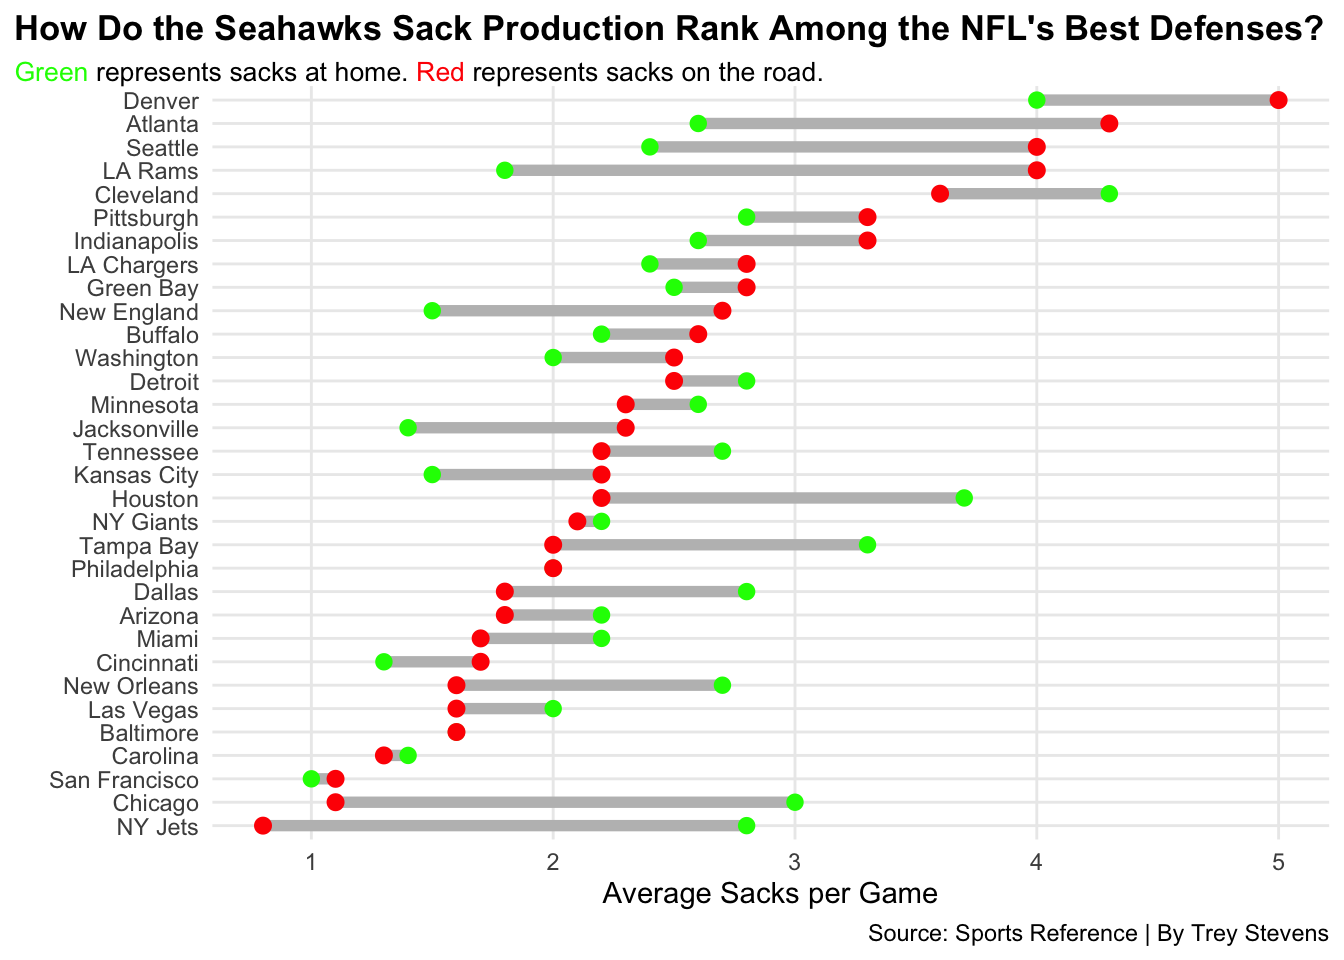
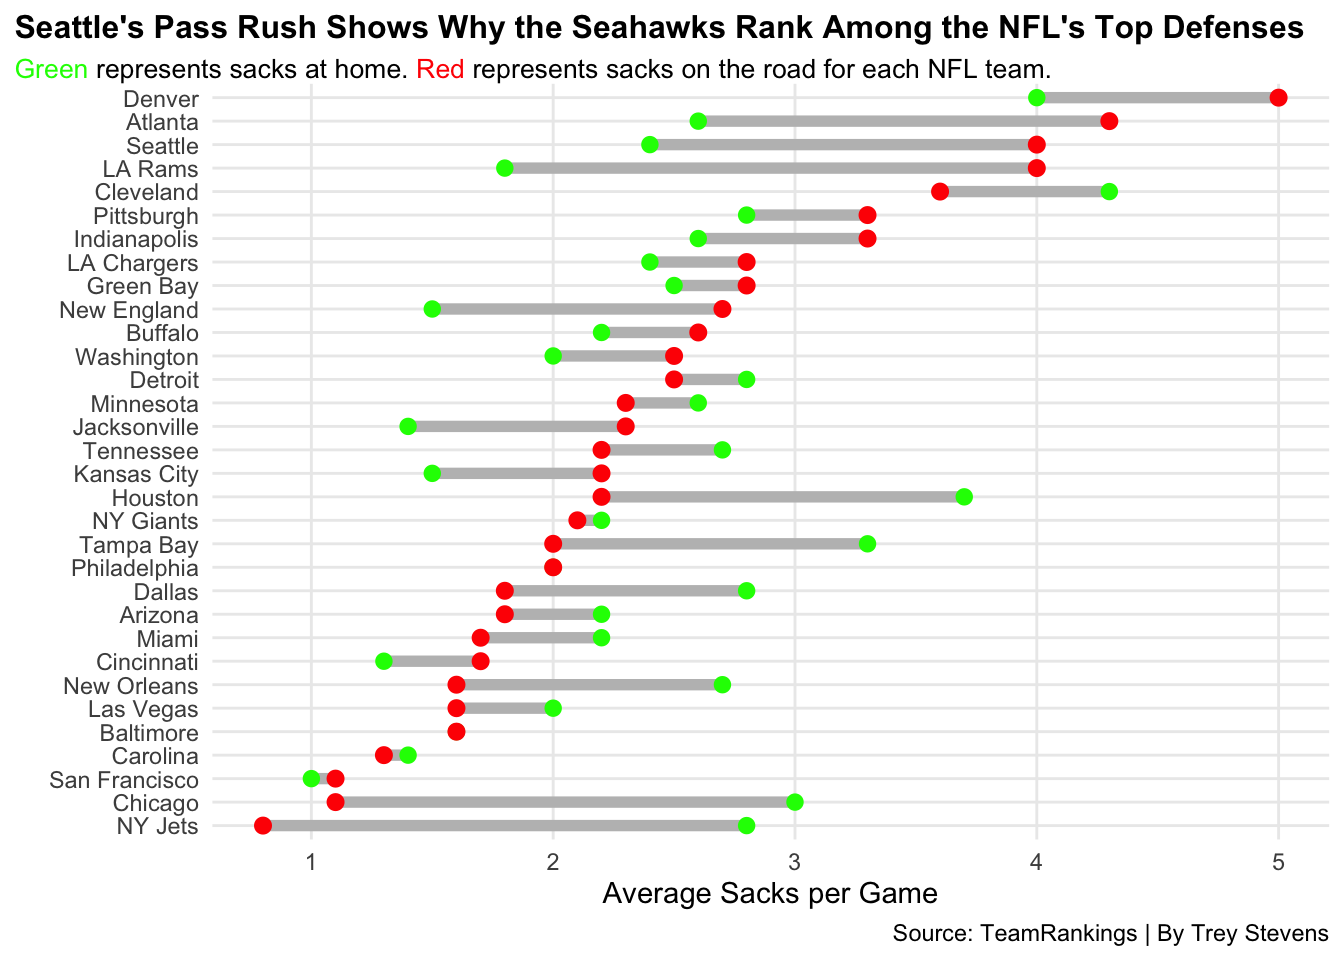
text
text

diff --git a/posts/who-is-the-best-defensive-team-in-the-NFL/index.html b/posts/who-is-the-best-defensive-team-in-the-NFL/index.html
@@ -7,7 +7,7 @@
 <meta name="viewport" content="width=device-width, initial-scale=1.0, user-scalable=yes">
 
 <meta name="author" content="Trey Stevens">
-<meta name="dcterms.date" content="2025-12-15">
+<meta name="dcterms.date" content="2025-12-05">
 
 <title>Making my case for why the Seattle Seahawks are one of the most elite defenses in the NFL – Trey Stevens sports site</title>
 <style>
@@ -171,7 +171,7 @@ pre > code.sourceCode > span > a:first-child::before { text-decoration: underlin
       <div>
       <div class="quarto-title-meta-heading">Published</div>
       <div class="quarto-title-meta-contents">
-        <p class="date">December 15, 2025</p>
+        <p class="date">December 5, 2025</p>
       </div>
     </div>
     
@@ -197,32 +197,33 @@ pre > code.sourceCode > span > a:first-child::before { text-decoration: underlin
 <span id="cb1-2"><a href="#cb1-2" aria-hidden="true" tabindex="-1"></a><span class="fu">library</span>(ggalt)</span>
 <span id="cb1-3"><a href="#cb1-3" aria-hidden="true" tabindex="-1"></a><span class="fu">library</span>(ggtext)</span>
 <span id="cb1-4"><a href="#cb1-4" aria-hidden="true" tabindex="-1"></a><span class="fu">library</span>(ggrepel)</span>
-<span id="cb1-5"><a href="#cb1-5" aria-hidden="true" tabindex="-1"></a></span>
-<span id="cb1-6"><a href="#cb1-6" aria-hidden="true" tabindex="-1"></a>hawks <span class="ot">&lt;-</span> <span class="fu">read_csv</span>(<span class="st">"NFL SACKS PER GAME - Sheet1.csv"</span>)</span>
-<span id="cb1-7"><a href="#cb1-7" aria-hidden="true" tabindex="-1"></a></span>
+<span id="cb1-5"><a href="#cb1-5" aria-hidden="true" tabindex="-1"></a><span class="fu">library</span>(patchwork)</span>
+<span id="cb1-6"><a href="#cb1-6" aria-hidden="true" tabindex="-1"></a></span>
+<span id="cb1-7"><a href="#cb1-7" aria-hidden="true" tabindex="-1"></a>hawks <span class="ot">&lt;-</span> <span class="fu">read_csv</span>(<span class="st">"NFL SACKS PER GAME - Sheet1.csv"</span>)</span>
 <span id="cb1-8"><a href="#cb1-8" aria-hidden="true" tabindex="-1"></a></span>
-<span id="cb1-9"><a href="#cb1-9" aria-hidden="true" tabindex="-1"></a><span class="fu">ggplot</span>() <span class="sc">+</span> </span>
-<span id="cb1-10"><a href="#cb1-10" aria-hidden="true" tabindex="-1"></a>  <span class="fu">geom_dumbbell</span>(</span>
-<span id="cb1-11"><a href="#cb1-11" aria-hidden="true" tabindex="-1"></a>    <span class="at">data=</span> hawks, </span>
-<span id="cb1-12"><a href="#cb1-12" aria-hidden="true" tabindex="-1"></a>    <span class="fu">aes</span>(<span class="at">y=</span> <span class="fu">reorder</span>(Team, Away), <span class="at">x=</span> Home, <span class="at">xend=</span> Away),</span>
-<span id="cb1-13"><a href="#cb1-13" aria-hidden="true" tabindex="-1"></a>  <span class="at">size =</span> <span class="dv">2</span>, </span>
-<span id="cb1-14"><a href="#cb1-14" aria-hidden="true" tabindex="-1"></a>  <span class="at">colour =</span> <span class="st">"grey"</span>,</span>
-<span id="cb1-15"><a href="#cb1-15" aria-hidden="true" tabindex="-1"></a>  <span class="at">colour_x =</span> <span class="st">"green"</span>,</span>
-<span id="cb1-16"><a href="#cb1-16" aria-hidden="true" tabindex="-1"></a>  <span class="at">colour_xend =</span><span class="st">"red"</span>) <span class="sc">+</span></span>
-<span id="cb1-17"><a href="#cb1-17" aria-hidden="true" tabindex="-1"></a>  <span class="fu">labs</span>(</span>
-<span id="cb1-18"><a href="#cb1-18" aria-hidden="true" tabindex="-1"></a>    <span class="at">x=</span><span class="st">"Average Sacks per Game"</span>,</span>
-<span id="cb1-19"><a href="#cb1-19" aria-hidden="true" tabindex="-1"></a>    <span class="at">y=</span><span class="st">""</span>,</span>
-<span id="cb1-20"><a href="#cb1-20" aria-hidden="true" tabindex="-1"></a>    <span class="at">title=</span><span class="st">"How Do the Seahawks Sack Production Rank Among the NFL's Best Defenses?"</span>,</span>
-<span id="cb1-21"><a href="#cb1-21" aria-hidden="true" tabindex="-1"></a>    <span class="at">subtitle=</span> <span class="st">"&lt;span style = 'color:green;'&gt;Green&lt;/span&gt; represents sacks at home. &lt;span style = 'color:red;'&gt;Red&lt;/span&gt; represents sacks on the road."</span>,</span>
-<span id="cb1-22"><a href="#cb1-22" aria-hidden="true" tabindex="-1"></a>    <span class="at">caption=</span><span class="st">"Source: Sports Reference | By Trey Stevens"</span></span>
-<span id="cb1-23"><a href="#cb1-23" aria-hidden="true" tabindex="-1"></a>  ) <span class="sc">+</span></span>
-<span id="cb1-24"><a href="#cb1-24" aria-hidden="true" tabindex="-1"></a>  <span class="fu">theme_minimal</span>() <span class="sc">+</span></span>
-<span id="cb1-25"><a href="#cb1-25" aria-hidden="true" tabindex="-1"></a>  <span class="fu">theme</span>(</span>
-<span id="cb1-26"><a href="#cb1-26" aria-hidden="true" tabindex="-1"></a>    <span class="at">plot.subtitle =</span> <span class="fu">element_textbox_simple</span>(<span class="at">size=</span><span class="dv">10</span>),</span>
-<span id="cb1-27"><a href="#cb1-27" aria-hidden="true" tabindex="-1"></a>    <span class="at">plot.title =</span> <span class="fu">element_text</span>(<span class="at">size =</span> <span class="dv">13</span>, <span class="at">face =</span> <span class="st">"bold"</span>),</span>
-<span id="cb1-28"><a href="#cb1-28" aria-hidden="true" tabindex="-1"></a>    <span class="at">panel.grid.minor =</span> <span class="fu">element_blank</span>(),</span>
-<span id="cb1-29"><a href="#cb1-29" aria-hidden="true" tabindex="-1"></a>    <span class="at">plot.title.position =</span> <span class="st">"plot"</span></span>
-<span id="cb1-30"><a href="#cb1-30" aria-hidden="true" tabindex="-1"></a>  )</span></code><button title="Copy to Clipboard" class="code-copy-button"><i class="bi"></i></button></pre></div>
+<span id="cb1-9"><a href="#cb1-9" aria-hidden="true" tabindex="-1"></a></span>
+<span id="cb1-10"><a href="#cb1-10" aria-hidden="true" tabindex="-1"></a><span class="fu">ggplot</span>() <span class="sc">+</span> </span>
+<span id="cb1-11"><a href="#cb1-11" aria-hidden="true" tabindex="-1"></a>  <span class="fu">geom_dumbbell</span>(</span>
+<span id="cb1-12"><a href="#cb1-12" aria-hidden="true" tabindex="-1"></a>    <span class="at">data=</span> hawks, </span>
+<span id="cb1-13"><a href="#cb1-13" aria-hidden="true" tabindex="-1"></a>    <span class="fu">aes</span>(<span class="at">y=</span> <span class="fu">reorder</span>(Team, Away), <span class="at">x=</span> Home, <span class="at">xend=</span> Away),</span>
+<span id="cb1-14"><a href="#cb1-14" aria-hidden="true" tabindex="-1"></a>  <span class="at">size =</span> <span class="dv">2</span>, </span>
+<span id="cb1-15"><a href="#cb1-15" aria-hidden="true" tabindex="-1"></a>  <span class="at">colour =</span> <span class="st">"grey"</span>,</span>
+<span id="cb1-16"><a href="#cb1-16" aria-hidden="true" tabindex="-1"></a>  <span class="at">colour_x =</span> <span class="st">"green"</span>,</span>
+<span id="cb1-17"><a href="#cb1-17" aria-hidden="true" tabindex="-1"></a>  <span class="at">colour_xend =</span><span class="st">"red"</span>) <span class="sc">+</span></span>
+<span id="cb1-18"><a href="#cb1-18" aria-hidden="true" tabindex="-1"></a>  <span class="fu">labs</span>(</span>
+<span id="cb1-19"><a href="#cb1-19" aria-hidden="true" tabindex="-1"></a>    <span class="at">x=</span><span class="st">"Average Sacks per Game"</span>,</span>
+<span id="cb1-20"><a href="#cb1-20" aria-hidden="true" tabindex="-1"></a>    <span class="at">y=</span><span class="st">""</span>,</span>
+<span id="cb1-21"><a href="#cb1-21" aria-hidden="true" tabindex="-1"></a>    <span class="at">title=</span><span class="st">"Seattle's Pass Rush Shows Why the Seahawks Rank Among the NFL's Top Defenses"</span>,</span>
+<span id="cb1-22"><a href="#cb1-22" aria-hidden="true" tabindex="-1"></a>    <span class="at">subtitle=</span> <span class="st">"&lt;span style = 'color:green;'&gt;Green&lt;/span&gt; represents sacks at home. &lt;span style = 'color:red;'&gt;Red&lt;/span&gt; represents sacks on the road for each NFL team."</span>,</span>
+<span id="cb1-23"><a href="#cb1-23" aria-hidden="true" tabindex="-1"></a>    <span class="at">caption=</span><span class="st">"Source: TeamRankings | By Trey Stevens"</span></span>
+<span id="cb1-24"><a href="#cb1-24" aria-hidden="true" tabindex="-1"></a>  ) <span class="sc">+</span></span>
+<span id="cb1-25"><a href="#cb1-25" aria-hidden="true" tabindex="-1"></a>  <span class="fu">theme_minimal</span>() <span class="sc">+</span></span>
+<span id="cb1-26"><a href="#cb1-26" aria-hidden="true" tabindex="-1"></a>  <span class="fu">theme</span>(</span>
+<span id="cb1-27"><a href="#cb1-27" aria-hidden="true" tabindex="-1"></a>    <span class="at">plot.subtitle =</span> <span class="fu">element_textbox_simple</span>(<span class="at">size=</span><span class="dv">10</span>),</span>
+<span id="cb1-28"><a href="#cb1-28" aria-hidden="true" tabindex="-1"></a>    <span class="at">plot.title =</span> <span class="fu">element_text</span>(<span class="at">size =</span> <span class="dv">12</span>, <span class="at">face =</span> <span class="st">"bold"</span>),</span>
+<span id="cb1-29"><a href="#cb1-29" aria-hidden="true" tabindex="-1"></a>    <span class="at">panel.grid.minor =</span> <span class="fu">element_blank</span>(),</span>
+<span id="cb1-30"><a href="#cb1-30" aria-hidden="true" tabindex="-1"></a>    <span class="at">plot.title.position =</span> <span class="st">"plot"</span></span>
+<span id="cb1-31"><a href="#cb1-31" aria-hidden="true" tabindex="-1"></a>  )</span></code><button title="Copy to Clipboard" class="code-copy-button"><i class="bi"></i></button></pre></div>
 </details>
 <div class="cell-output-display">
 <div>
@@ -255,18 +256,68 @@ pre > code.sourceCode > span > a:first-child::before { text-decoration: underlin
 <span id="cb2-16"><a href="#cb2-16" aria-hidden="true" tabindex="-1"></a>  ) <span class="sc">+</span></span>
 <span id="cb2-17"><a href="#cb2-17" aria-hidden="true" tabindex="-1"></a>  <span class="fu">geom_vline</span>(<span class="at">xintercept =</span> <span class="dv">0</span>) <span class="sc">+</span> </span>
 <span id="cb2-18"><a href="#cb2-18" aria-hidden="true" tabindex="-1"></a>  <span class="fu">geom_hline</span>(<span class="at">yintercept =</span> <span class="dv">0</span>) <span class="sc">+</span></span>
-<span id="cb2-19"><a href="#cb2-19" aria-hidden="true" tabindex="-1"></a>  <span class="fu">labs</span>(<span class="at">title=</span><span class="st">"Is Nebraska moving up to the Big Ten's best?"</span>, <span class="at">subtitle=</span><span class="st">"The Huskers offense and defense puts it among ranked teams in the conference."</span>, <span class="at">caption=</span><span class="st">"Source: NCAA | By Matt Waite"</span>)  <span class="sc">+</span> <span class="fu">theme_minimal</span>() <span class="sc">+</span> </span>
+<span id="cb2-19"><a href="#cb2-19" aria-hidden="true" tabindex="-1"></a>  <span class="fu">labs</span>(<span class="at">title=</span><span class="st">"Seattle's Defense Thrives by Shutting Down Explosive Plays"</span>, <span class="at">subtitle=</span><span class="st">"Negative EPA on both pass and rush shows how the Seahawks defense is shutting down opposing offenses."</span>, <span class="at">caption=</span><span class="st">"Source: SumerSports | By Trey Stevens"</span>)  <span class="sc">+</span> <span class="fu">theme_minimal</span>() <span class="sc">+</span> </span>
 <span id="cb2-20"><a href="#cb2-20" aria-hidden="true" tabindex="-1"></a>  <span class="fu">theme</span>(</span>
 <span id="cb2-21"><a href="#cb2-21" aria-hidden="true" tabindex="-1"></a>    <span class="at">plot.title =</span> <span class="fu">element_text</span>(<span class="at">size =</span> <span class="dv">16</span>, <span class="at">face =</span> <span class="st">"bold"</span>),</span>
 <span id="cb2-22"><a href="#cb2-22" aria-hidden="true" tabindex="-1"></a>    <span class="at">axis.title =</span> <span class="fu">element_text</span>(<span class="at">size =</span> <span class="dv">8</span>), </span>
 <span id="cb2-23"><a href="#cb2-23" aria-hidden="true" tabindex="-1"></a>    <span class="at">plot.subtitle =</span> <span class="fu">element_text</span>(<span class="at">size=</span><span class="dv">10</span>), </span>
-<span id="cb2-24"><a href="#cb2-24" aria-hidden="true" tabindex="-1"></a>    <span class="at">panel.grid.minor =</span> <span class="fu">element_blank</span>()</span>
-<span id="cb2-25"><a href="#cb2-25" aria-hidden="true" tabindex="-1"></a>    )</span></code><button title="Copy to Clipboard" class="code-copy-button"><i class="bi"></i></button></pre></div>
+<span id="cb2-24"><a href="#cb2-24" aria-hidden="true" tabindex="-1"></a>    <span class="at">panel.grid.minor =</span> <span class="fu">element_blank</span>(),</span>
+<span id="cb2-25"><a href="#cb2-25" aria-hidden="true" tabindex="-1"></a>    <span class="at">plot.title.position =</span> <span class="st">"plot"</span></span>
+<span id="cb2-26"><a href="#cb2-26" aria-hidden="true" tabindex="-1"></a>    )</span></code><button title="Copy to Clipboard" class="code-copy-button"><i class="bi"></i></button></pre></div>
 </details>
 <div class="cell-output-display">
 <div>
 <figure class="figure">
 <p><img src="index_files/figure-html/unnamed-chunk-2-1.png" class="img-fluid figure-img" width="672"></p>
+</figure>
+</div>
+</div>
+</div>
+<div class="cell">
+<details class="code-fold">
+<summary>Code</summary>
+<div class="sourceCode cell-code" id="cb3"><pre class="sourceCode r code-with-copy"><code class="sourceCode r"><span id="cb3-1"><a href="#cb3-1" aria-hidden="true" tabindex="-1"></a>pts <span class="ot">&lt;-</span> <span class="fu">read_csv</span>(<span class="st">"ptspergame.csv"</span>)</span>
+<span id="cb3-2"><a href="#cb3-2" aria-hidden="true" tabindex="-1"></a></span>
+<span id="cb3-3"><a href="#cb3-3" aria-hidden="true" tabindex="-1"></a>sea_pts <span class="ot">&lt;-</span> pts <span class="sc">|&gt;</span> <span class="fu">filter</span>(Team <span class="sc">==</span> <span class="st">"Seattle"</span>)</span>
+<span id="cb3-4"><a href="#cb3-4" aria-hidden="true" tabindex="-1"></a></span>
+<span id="cb3-5"><a href="#cb3-5" aria-hidden="true" tabindex="-1"></a>bar1 <span class="ot">&lt;-</span> <span class="fu">ggplot</span>() <span class="sc">+</span> </span>
+<span id="cb3-6"><a href="#cb3-6" aria-hidden="true" tabindex="-1"></a>  <span class="fu">geom_bar</span>(<span class="at">data=</span>pts, <span class="fu">aes</span>(<span class="at">x=</span><span class="fu">reorder</span>(Team, <span class="sc">-</span><span class="st">`</span><span class="at">2024</span><span class="st">`</span>), <span class="at">weight=</span> <span class="st">`</span><span class="at">2024</span><span class="st">`</span>), <span class="at">fill=</span><span class="st">"lightgrey"</span>) <span class="sc">+</span></span>
+<span id="cb3-7"><a href="#cb3-7" aria-hidden="true" tabindex="-1"></a>  <span class="fu">geom_bar</span>(<span class="at">data=</span>sea_pts, <span class="fu">aes</span>(<span class="at">x=</span><span class="fu">reorder</span>(Team, <span class="sc">-</span><span class="st">`</span><span class="at">2024</span><span class="st">`</span>), <span class="at">weight=</span> <span class="st">`</span><span class="at">2024</span><span class="st">`</span>), <span class="at">fill =</span><span class="st">"#002145"</span>) <span class="sc">+</span></span>
+<span id="cb3-8"><a href="#cb3-8" aria-hidden="true" tabindex="-1"></a>  <span class="fu">coord_flip</span>() <span class="sc">+</span> </span>
+<span id="cb3-9"><a href="#cb3-9" aria-hidden="true" tabindex="-1"></a>  <span class="fu">labs</span>(</span>
+<span id="cb3-10"><a href="#cb3-10" aria-hidden="true" tabindex="-1"></a>    <span class="at">x=</span><span class="st">""</span>, </span>
+<span id="cb3-11"><a href="#cb3-11" aria-hidden="true" tabindex="-1"></a>    <span class="at">y=</span><span class="st">"Points allowed 2024"</span></span>
+<span id="cb3-12"><a href="#cb3-12" aria-hidden="true" tabindex="-1"></a>    ) <span class="sc">+</span> </span>
+<span id="cb3-13"><a href="#cb3-13" aria-hidden="true" tabindex="-1"></a>  <span class="fu">theme_minimal</span>() </span>
+<span id="cb3-14"><a href="#cb3-14" aria-hidden="true" tabindex="-1"></a></span>
+<span id="cb3-15"><a href="#cb3-15" aria-hidden="true" tabindex="-1"></a>bar2 <span class="ot">&lt;-</span> <span class="fu">ggplot</span>() <span class="sc">+</span> </span>
+<span id="cb3-16"><a href="#cb3-16" aria-hidden="true" tabindex="-1"></a>  <span class="fu">geom_bar</span>(<span class="at">data=</span>pts, <span class="fu">aes</span>(<span class="at">x=</span><span class="fu">reorder</span>(Team, <span class="sc">-</span><span class="st">`</span><span class="at">2025</span><span class="st">`</span>), <span class="at">weight=</span> <span class="st">`</span><span class="at">2025</span><span class="st">`</span>), <span class="at">fill=</span><span class="st">"lightgrey"</span>) <span class="sc">+</span></span>
+<span id="cb3-17"><a href="#cb3-17" aria-hidden="true" tabindex="-1"></a>  <span class="fu">geom_bar</span>(<span class="at">data=</span>sea_pts, <span class="fu">aes</span>(<span class="at">x=</span><span class="fu">reorder</span>(Team, <span class="sc">-</span><span class="st">`</span><span class="at">2025</span><span class="st">`</span>), <span class="at">weight=</span> <span class="st">`</span><span class="at">2025</span><span class="st">`</span>), <span class="at">fill =</span><span class="st">"#002145"</span>) <span class="sc">+</span>  </span>
+<span id="cb3-18"><a href="#cb3-18" aria-hidden="true" tabindex="-1"></a>  <span class="fu">coord_flip</span>() <span class="sc">+</span> </span>
+<span id="cb3-19"><a href="#cb3-19" aria-hidden="true" tabindex="-1"></a>  <span class="fu">labs</span>(</span>
+<span id="cb3-20"><a href="#cb3-20" aria-hidden="true" tabindex="-1"></a>    <span class="at">x=</span><span class="st">""</span>, </span>
+<span id="cb3-21"><a href="#cb3-21" aria-hidden="true" tabindex="-1"></a>    <span class="at">y=</span><span class="st">"Points allowed 2025"</span></span>
+<span id="cb3-22"><a href="#cb3-22" aria-hidden="true" tabindex="-1"></a>    ) <span class="sc">+</span> </span>
+<span id="cb3-23"><a href="#cb3-23" aria-hidden="true" tabindex="-1"></a>  <span class="fu">theme_minimal</span>() </span>
+<span id="cb3-24"><a href="#cb3-24" aria-hidden="true" tabindex="-1"></a></span>
+<span id="cb3-25"><a href="#cb3-25" aria-hidden="true" tabindex="-1"></a>bar1 <span class="sc">+</span> bar2  <span class="sc">+</span> </span>
+<span id="cb3-26"><a href="#cb3-26" aria-hidden="true" tabindex="-1"></a>  <span class="fu">plot_annotation</span>(</span>
+<span id="cb3-27"><a href="#cb3-27" aria-hidden="true" tabindex="-1"></a>    <span class="at">title =</span> <span class="st">"Seattle's Defense Dominates Allowing Fewer Points in 2025 Compared to 2024"</span>,</span>
+<span id="cb3-28"><a href="#cb3-28" aria-hidden="true" tabindex="-1"></a>    <span class="at">subtitle =</span> <span class="st">"Seahawks were in the upper half of the league in least points allowed now they are up at the very top."</span>,</span>
+<span id="cb3-29"><a href="#cb3-29" aria-hidden="true" tabindex="-1"></a>    <span class="at">caption =</span> <span class="st">"Source: TeamRankings | By Trey Stevens"</span></span>
+<span id="cb3-30"><a href="#cb3-30" aria-hidden="true" tabindex="-1"></a>  )  <span class="sc">&amp;</span> </span>
+<span id="cb3-31"><a href="#cb3-31" aria-hidden="true" tabindex="-1"></a>  <span class="fu">theme</span>(</span>
+<span id="cb3-32"><a href="#cb3-32" aria-hidden="true" tabindex="-1"></a>    <span class="at">plot.title =</span> <span class="fu">element_text</span>(<span class="at">size =</span> <span class="dv">13</span>, <span class="at">face =</span> <span class="st">"bold"</span>),</span>
+<span id="cb3-33"><a href="#cb3-33" aria-hidden="true" tabindex="-1"></a>    <span class="at">axis.title =</span> <span class="fu">element_text</span>(<span class="at">size =</span> <span class="dv">8</span>), </span>
+<span id="cb3-34"><a href="#cb3-34" aria-hidden="true" tabindex="-1"></a>    <span class="at">plot.subtitle =</span> <span class="fu">element_text</span>(<span class="at">size=</span><span class="dv">10</span>), </span>
+<span id="cb3-35"><a href="#cb3-35" aria-hidden="true" tabindex="-1"></a>    <span class="at">panel.grid.minor =</span> <span class="fu">element_blank</span>(),  </span>
+<span id="cb3-36"><a href="#cb3-36" aria-hidden="true" tabindex="-1"></a>    <span class="at">plot.title.position =</span> <span class="st">"plot"</span></span>
+<span id="cb3-37"><a href="#cb3-37" aria-hidden="true" tabindex="-1"></a>  )</span></code><button title="Copy to Clipboard" class="code-copy-button"><i class="bi"></i></button></pre></div>
+</details>
+<div class="cell-output-display">
+<div>
+<figure class="figure">
+<p><img src="index_files/figure-html/unnamed-chunk-3-1.png" class="img-fluid figure-img" width="672"></p>
 </figure>
 </div>
 </div>

diff --git a/index.html b/index.html
@@ -205,7 +205,7 @@ window.Quarto = {
 
 <div class="quarto-listing quarto-listing-container-default" id="listing-listing">
 <div class="list quarto-listing-default">
-<div class="quarto-post image-right" data-index="0" data-categories="TkZMJTJDRm9vdGJhbGwlMkNQcm9mZXNzaW9uYWw=" data-listing-date-sort="1765778400000" data-listing-file-modified-sort="1764965178807" data-listing-date-modified-sort="NaN" data-listing-reading-time-sort="2" data-listing-word-count-sort="307">
+<div class="quarto-post image-right" data-index="0" data-categories="TkZMJTJDRm9vdGJhbGwlMkNQcm9mZXNzaW9uYWw=" data-listing-date-sort="1764914400000" data-listing-file-modified-sort="1764969567794" data-listing-date-modified-sort="NaN" data-listing-reading-time-sort="3" data-listing-word-count-sort="537">
 <div class="thumbnail">
 <p><a href="./posts/who-is-the-best-defensive-team-in-the-NFL/index.html" class="no-external"></a></p><a href="./posts/who-is-the-best-defensive-team-in-the-NFL/index.html" class="no-external">
 <p><img loading="lazy" src="./posts/who-is-the-best-defensive-team-in-the-NFL/image.png" class="thumbnail-image"></p>
@@ -237,7 +237,7 @@ Professional
 <div class="metadata">
 <a href="./posts/who-is-the-best-defensive-team-in-the-NFL/index.html" class="no-external">
 <div class="listing-date">
-Dec 15, 2025
+Dec 5, 2025
 </div>
 <div class="listing-author">
 Trey Stevens
